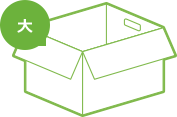
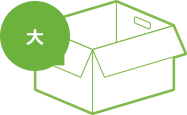
51番以降修正

Changed region(s): [[0.0, 0.0, 1.0, 1.0]]

diff --git a/form_pc_2.html b/form_pc_2.html
@@ -187,6 +187,11 @@
               </a>
             </h3>
             <div id="modal-help-shipping" class="modal-Template">
+              <div class="modal-Header">
+                <p class="modal-HeaderText">
+                  コンビニ持ち込み
+                </p>
+              </div>
               <p class="modal-help-shippingText">
                 最寄りのクロネコヤマト宅配便取扱店から着払いで弊社までお送りください。<br>
                 コンビニエンスストアはファミリーマート・セブンイレブン等がお取扱をしております。
@@ -373,10 +378,25 @@
                 </div>
                 <div class="form-Field_Widget form-Field_Widget-boxOther">
                   <div class="form-Radio custom-control custom-radio">
-                    <input type="radio" id="num-box-other" name="num-box" class="custom-control-input u-pt-3" data-toggle="other">
+                    <input type="radio" id="num-box-other" name="num-box" class="custom-control-input u-pt-3">
                     <label class="custom-control-label form-Text form-Text-numBoxOver mt-0" for="num-box-other">それ以上</label>
                   </div>
-                  <input class="form-control form-InputText form-InputText-numBoxOver form-InputText-optional form-InputText_Placeholder-black" type="text" placeholder="">箱
+                  <select class="custom-select form-Select form-Select-120 form-Select-optional u-pb-6">
+                    <option value="7箱">7箱</option>
+                    <option value="8箱">8箱</option>
+                    <option value="9箱">9箱</option>
+                    <option value="10箱">10箱</option>
+                    <option value="11箱">11箱</option>
+                    <option value="12箱">12箱</option>
+                    <option value="13箱">13箱</option>
+                    <option value="14箱">14箱</option>
+                    <option value="15箱">15箱</option>
+                    <option value="16箱">16箱</option>
+                    <option value="17箱">17箱</option>
+                    <option value="18箱">18箱</option>
+                    <option value="19箱">19箱</option>
+                    <option value="20箱">20箱</option>
+                  </select>
                 </div>
 
               </div><!--.sw-SubSection_Content-->
@@ -570,8 +590,7 @@
             </div><!--/.sw-SubSection.form-Content-->
 
             <div class="sw-SubSection form-Content position-relative text-center">
-              <h3 class="sw-SubSection_Title form-Content_Title mb-0 u-pl-7">宅配キットのお届け日</h3>
-              <p class="form-Text form-Text_UnderLine d-inline-block u-mt-20">2018年10月19日（水）12:00〜14:00</p>
+              <p class="form-Text form-Text_UnderLine d-inline-block u-mt-20">宅配キットのお届け日　2018年10月19日（水）12:00〜14:00</p>
               <a href="./form_pc_1.html" class="comfirm-ChangeAnchor comfirm-ChangeAnchor-h40">変更する</a>
             </div><!--/.sw-SubSection.form-Content-->
 
@@ -620,10 +639,25 @@
                 </div>
                 <div class="form-Field_Widget form-Field_Widget-boxOther">
                   <div class="form-Radio custom-control custom-radio">
-                    <input type="radio" id="num-box-other" name="num-box" class="custom-control-input u-pt-3" data-toggle="other">
-                    <label class="custom-control-label form-Text form-Text-numBoxOver mt-0" for="num-box-other">それ以上</label>
+                    <input type="radio" id="num-box-other2" name="num-box" class="custom-control-input u-pt-3">
+                    <label class="custom-control-label form-Text form-Text-numBoxOver mt-0" for="num-box-other2">それ以上</label>
                   </div>
-                  <input class="form-control form-InputText form-InputText-numBoxOver form-InputText-optional form-InputText_Placeholder-black" type="text" placeholder="">箱
+                  <select class="custom-select form-Select form-Select-120 form-Select-optional u-pb-6">
+                    <option value="7箱">7箱</option>
+                    <option value="8箱">8箱</option>
+                    <option value="9箱">9箱</option>
+                    <option value="10箱">10箱</option>
+                    <option value="11箱">11箱</option>
+                    <option value="12箱">12箱</option>
+                    <option value="13箱">13箱</option>
+                    <option value="14箱">14箱</option>
+                    <option value="15箱">15箱</option>
+                    <option value="16箱">16箱</option>
+                    <option value="17箱">17箱</option>
+                    <option value="18箱">18箱</option>
+                    <option value="19箱">19箱</option>
+                    <option value="20箱">20箱</option>
+                  </select>
                 </div>
 
               </div><!--.sw-SubSection_Content-->
@@ -817,8 +851,7 @@
             </div><!--/.sw-SubSection.form-Content-->
 
             <div class="sw-SubSection form-Content position-relative text-center">
-              <h3 class="sw-SubSection_Title form-Content_Title mb-0 u-pl-7">宅配キットのお届け日</h3>
-              <p class="form-Text form-Text_UnderLine d-inline-block u-mt-20">2018年10月19日（水）12:00〜14:00</p>
+              <p class="form-Text form-Text_UnderLine d-inline-block u-mt-20">宅配キットのお届け日 2018年10月19日（水）12:00〜14:00</p>
               <a href="./form_pc_1.html" class="comfirm-ChangeAnchor comfirm-ChangeAnchor-h40">変更する</a>
             </div><!--/.sw-SubSection.form-Content-->
 

diff --git a/form_pc_1.html b/form_pc_1.html
@@ -208,13 +208,13 @@
 
           <div class="sw-SubSection form-Content">
 
-            <h3 class="sw-SubSection_Title form-Content_Title u-mb-25"><span class="kit-Subtitle_Notice">無料でお届け！</span><span class="">「もえたく！用宅配キット」のサイズと箱数</span></h3>
+            <h3 class="sw-SubSection_Title form-Content_Title u-mb-25"><span class="kit-Subtitle_Notice">無料でお届け!</span><span class="">宅配キットのサイズと箱数</span></h3>
             <p class="kit-Text">すべての段ボールには、緩衝材が同梱されています</p>
 
             <ul class="kit-List">
               <li class="kit-List_Item">
                 <figure class="kit-Img_Unit kit-Img_Unit-large">
-                  <img class="kit-Img kit-Img-large" src="./images/step1/icon-package_large@2x.png" alt="段ボール大">
+                  <img class="kit-Img kit-Img-large" src="./images/step1/icon-package_large.png" alt="段ボール大">
                   <figcaption class="kit-Img kit-Img_Title">figma 約32個分<span class="kit-Img_SizeText kit-Img_SizeText-large">（61×44×40cm）</span></figcaption>
                 </figure>
                 <div class="text-center u-ml-5">
@@ -235,7 +235,7 @@
               </li>
               <li class="kit-List_Item">
                 <figure class="kit-Img_Unit kit-Img_Unit-medium">
-                  <img class="kit-Img kit-Img-medium" src="./images/step1/icon-package_middle@2x.png" alt="段ボール中">
+                  <img class="kit-Img kit-Img-medium" src="./images/step1/icon-package_middle.png" alt="段ボール中">
                   <figcaption class="kit-Img_Title">figma 約10個分<span class="kit-Img_SizeText kit-Img_SizeText-medium">（40×33×24cm）</span></figcaption>
                 </figure>
                 <div class="text-center u-ml-5">
@@ -256,7 +256,7 @@
               </li>
               <li class="kit-List_Item">
                 <figure class="kit-Img_Unit kit-Img_Unit-small">
-                  <img class="kit-Img kit-Img-small" src="./images/step1/icon-package_small@2x.png" alt="段ボール小">
+                  <img class="kit-Img kit-Img-small" src="./images/step1/icon-package_small.png" alt="段ボール小">
                   <figcaption class="kit-Img_Title kit-Img_Title-small">figma 約4個分<span class="kit-Img_SizeText kit-Img_SizeText-small">（33×25×16cm）</span></figcaption>
                 </figure>
                 <div class="text-center u-ml-5">
@@ -277,7 +277,7 @@
               </li>
               <li class="kit-List_Item">
                 <figure class="kit-Img_Unit kit-Img_Unit-only">
-                  <img class="kit-Img kit-Img-only" src="./images/step1/icon-package_only@2x.png" alt="緩衝材のみ">
+                  <img class="kit-Img kit-Img-only" src="./images/step1/icon-package_only.png" alt="緩衝材のみ">
                   <figcaption class="kit-Img_Title kit-Img_Title-only"><span class="kit-Img_SizeText kit-Img_SizeText-only">（120x300cm）</span></figcaption>
                 </figure>
                 <div class="text-center u-ml-5">
@@ -310,24 +310,20 @@
           <div class="sw-SubSection form-Content">
             <h3 class="sw-SubSection_Title form-Content_Title u-pr-11">お届け先の郵便番号</h3>
 
-            <div class="form-Content_Inner text-center">
+      
+            <div class="form-Content_Inner text-center u-mt-12 u-mb-18">
               <div class="form-Field_Widget d-inline-block">
-                <input class="form-control form-InputText form-InputText-230 form-InputText-optional" type="text" placeholder="">
+                <input class="form-control form-InputText form-InputText-230" type="text" placeholder="1234567">
               </div>
             </div>
 
-            <div class="form-Content_Inner text-center u-mt-12"><!--必須-->
+            <!--エラー表示の場合
+            <div class="form-Content_Inner text-center u-mt-9 u-mb-18">
               <div class="form-Field_Widget d-inline-block">
-                <input class="form-control form-InputText form-InputText-230" type="text" placeholder="">
+                <input class="form-control form-InputText form-InputText-230 form-InputText-error" type="text" placeholder="1234567">
               </div>
             </div>
-
-            <div class="form-Content_Inner text-center u-mt-9 u-mb-18"><!--エラー-->
-              <div class="form-Field_Widget d-inline-block">
-                <input class="form-control form-InputText form-InputText-230 form-InputText-error" type="text" placeholder="">
-              </div>
-            </div>
-
+            -->
 
             <div class="text-center">
               <a href="#dummy"><span class="form-Text  u-mt-18"><span class="form-Text_UnderLine d-inline-block">郵便番号がご不明な方</span><i class="fas fa-chevron-circle-right"></i></span></a>
@@ -503,8 +499,8 @@
   モーダル表示（お届け希望時間帯）
 </a>
 <div id="modal-HopeTime" class="modal-Template">
-  <div class="modal-HopeTime_Header">
-    <p class="modal-HopeTime_HeaderText">
+  <div class="modal-Header">
+    <p class="modal-HeaderText">
       お届け希望時間帯を<br>
       教えてください
     </p>

diff --git a/form_pc_3.html b/form_pc_3.html
@@ -186,12 +186,12 @@
             </div><!--.sw-SubSection_Content-->
 
           <div class="sw-SubSection form-Content">
-            <h3 class="sw-SubSection_Title form-Content_Title u-mt-15">ご連絡先・パスワード</h3>
+            <h3 class="sw-SubSection_Title form-Content_Title u-mt-15">ご連絡先・ＩＤ パスワード</h3>
 
             <div class="sw-SubSection_Content u-mb-0">
               <div class="form-Field">
                 <label class="form-Field_Label">
-                  メールアドレス
+                  メールアドレス（ＩＤ）
                 </label>
                 <div class="form-Field_Widget">
                   <input class="form-control form-InputText form-InputText-470" type="text" placeholder="info@renet.jp">
@@ -301,7 +301,15 @@
           </div><!--/.sw-SubSection.form-Content-->
 
           <div class="sw-SubSection form-Content">
-            <h3 class="sw-SubSection_Title form-Content_Title">本人確認方法</h3>
+            <h3 class="sw-SubSection_Title form-Content_Title">
+              本人確認方法
+              <a href="#modal-Help-parsonal"
+                 class="sw-SubSection_TitleHelp modaal"
+                 data-modaal-custom-class="modal-Help modal-Help-parsonal"
+                 data-modaal-width="420">
+                <i class="fas fa-question-circle"></i>
+              </a>
+            </h3>
 
             <div class="sw-SubSection_Content">
               <div class="form-Field_Widget form-Field_Widget-multi btn-group-toggle" data-toggle="buttons">
@@ -322,6 +330,20 @@
               </div>
             </div><!--/.sw-SubSection_Content-->
           </div><!--/.sw-SubSection.form-Content-->
+
+
+          <div id="modal-Help-parsonal" class="modal-Template">
+              <div class="modal-Header">
+                <p class="modal-HeaderText">
+                  本人確認方法
+                </p>
+              </div>
+              <p>運転免許証、健康保険証（住所記載のあるもの）がご利用になれます。</p>
+              <h4 class="modal-Sub-title">マイページからアップロード<span class="modal-Text-red">（おすすめ）</span></h4>
+              <p>撮影した本人確認書類の画像を、お申込み後、マイページからアップロードすることが出来ます。</p>
+              <h4 class="modal-Sub-title">商品と一緒にコピーを送る</h4>
+              <p>本人確認書類のコピーを、売りたい商品と一緒にダンボールに入れてお送りください。</p>
+          </div>
 
         </div><!--/.sw-Section_Content-->
 

diff --git a/css/style.css b/css/style.css
@@ -265,11 +265,11 @@ body {
 .welcome-Copy_Text {
   margin: 0;
   font-family: "Noto Sans JP", sans-serif;
-  font-weight: 500;
+  font-weight: 700;
   font-display: swap;
   font-size: 20px;
   font-size: 1.25rem;
-  color: #e72c54; }
+  color: #ff124c; }
 
 .welcome-Copy_Anchor {
   font-size: 14px;
@@ -811,7 +811,7 @@ body {
   line-height: 1.71429; }
 
 .form-Text-anyMark {
-  padding: 5px 12px;
+  padding: 4px 12px;
   margin: 0 0 0 20px;
   background-color: #707070;
   border-radius: 3px;
@@ -820,7 +820,7 @@ body {
   font-weight: normal;
   color: #ffffff;
   position: relative;
-  top: -35px;
+  top: -36px;
   left: 371px; }
 
 .form-Button {
@@ -1220,8 +1220,7 @@ body {
 
 .kit-Img_Unit {
   margin: 0 auto 17px; }
-  .kit-Img_Unit img {
-    width: 100%; }
+
 
 .kit-Img_Unit-large {
   width: 177px;
@@ -1348,8 +1347,8 @@ body {
     font-size: 1.25rem; }
 
 .kit-Subtitle_Notice {
-  margin: 0 0 0 2px;
-  padding: 6px 6px 6px 8px;
+  margin: 0 10px 0 0;
+  padding: 3px 6px 3px 8px;
   background-color: #ff124b;
   border-radius: 3px;
   font-size: 14px;
@@ -1543,6 +1542,15 @@ body {
 .modal-Template {
   display: none; }
 
+.modal-Sub-title{
+  font-size: 16px;
+  font-size: 1rem;
+  line-height: 1.71429;
+  font-weight: bold;}
+
+.modal-Text-red{
+  color:#ff124c}
+
 .modal-Bank .modaal-container {
   max-width: 540px; }
 
@@ -1630,14 +1638,15 @@ body {
 
 .modal-Field_Text-hopeTime {
   margin: 0 0 23px 0;
-  padding: 0 0 0 12px; }
+  padding: 0 0 0 12px;
+  line-height: 2; }
 
 .modal-Submit {
   margin: 30px auto 0;
   text-align: center; }
 
 .modal-RadioBox {
-  margin: 16px 0 0.5rem; }
+  margin: 8px 0 0.5rem; }
   .modal-RadioBox .custom-control-label:before {
     top: 0;
     left: -1.5rem;
@@ -1772,13 +1781,13 @@ body {
   width: 310px;
   padding: 20px 30px; }
 
-.modal-HopeTime_Header {
+.modal-Header {
   margin: 0 0 15px 0;
   padding: 0 0 10px 0;
   border-bottom: #cccccc 2px solid;
   text-align: center; }
 
-.modal-HopeTime_HeaderText {
+.modal-HeaderText {
   margin: 0;
   font-size: 16px;
   font-size: 1rem;
@@ -1841,7 +1850,7 @@ body {
       border: 2px solid #999999;
       box-shadow: inset 3px 3px 0.2rem rgba(0, 0, 0, 0.1); }
     .modal-Checkbox .custom-control-label:after {
-      top: 0;
+      top: -3px;
       left: -1.5rem;
       display: block;
       width: 1.8rem;
@@ -2203,6 +2212,10 @@ body {
 
 .u-pb-84 {
   padding-bottom: 84px !important; }
+.u-pb-100 {
+  padding-bottom: 100px !important; }
+.u-pb-200 {
+  padding-bottom: 200px !important; }
 
 .u-pr-6 {
   padding-right: 6px !important; }

diff --git a/form_pc_1_initial-display.html b/form_pc_1_initial-display.html
@@ -27,7 +27,7 @@
   </div>
 
 </header>
-<main class="sw-Main u-pb-84">
+<main class="sw-Main u-pb-200">
   <div class="welcome-Wrapper">
     <div class="welcome-Inner">
       <figure class="welcome-Character">
